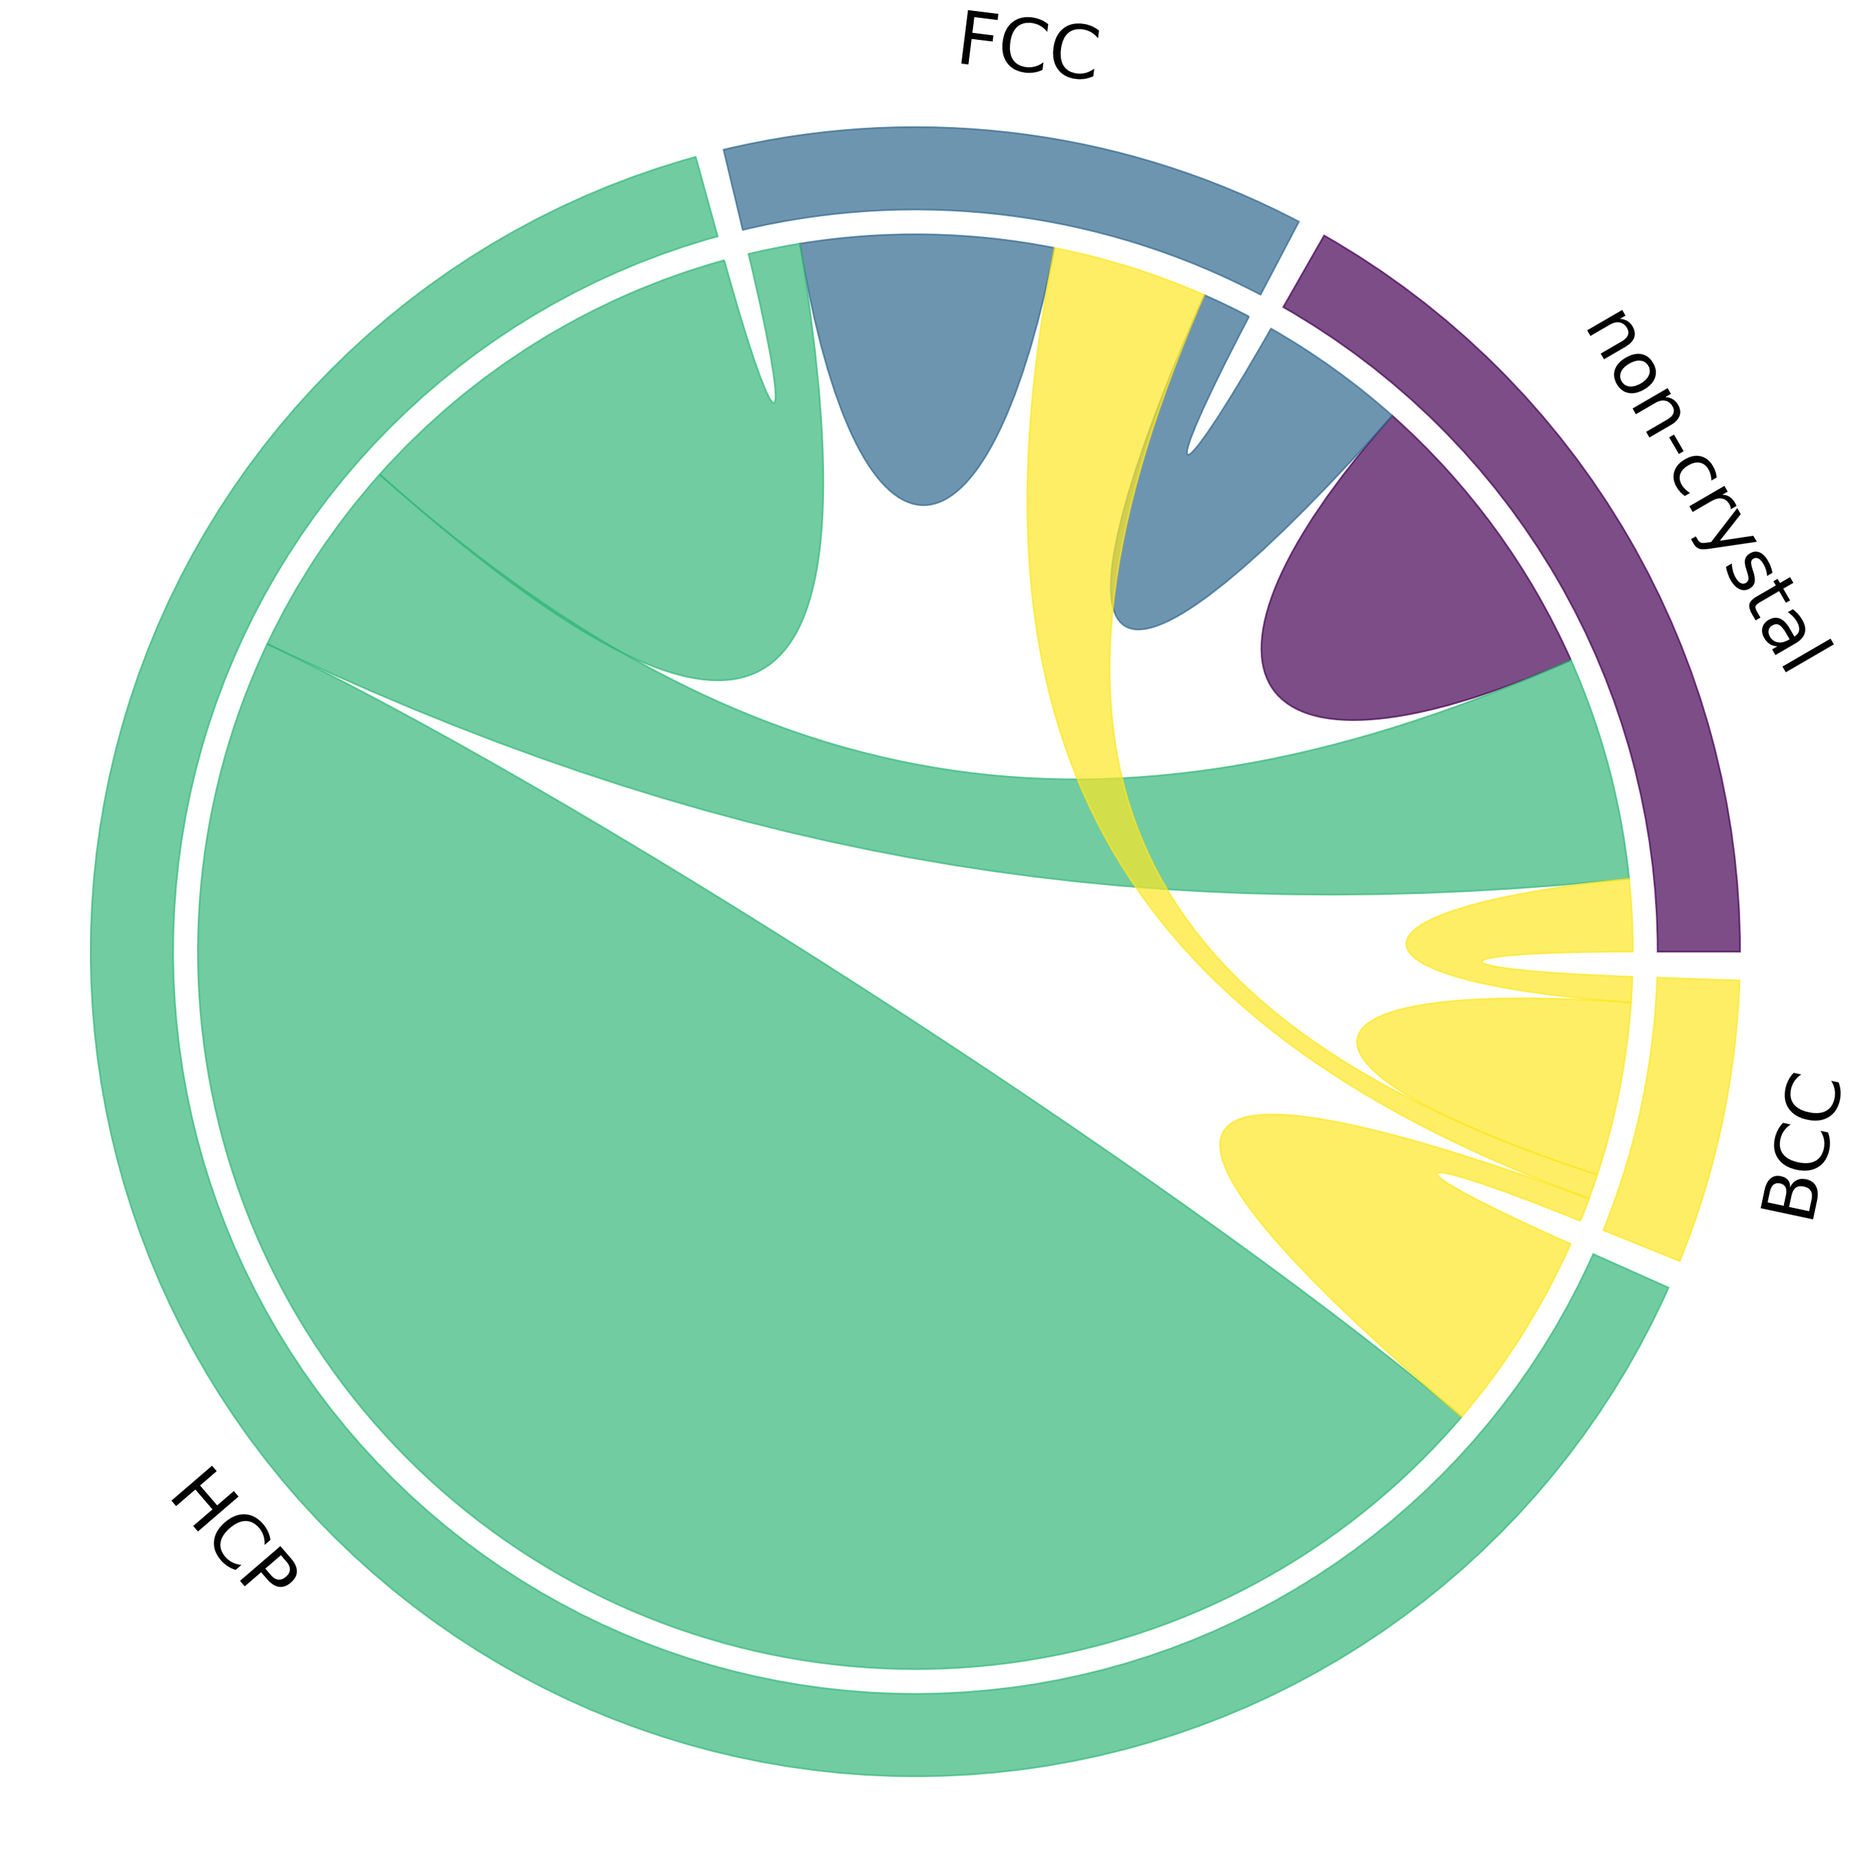
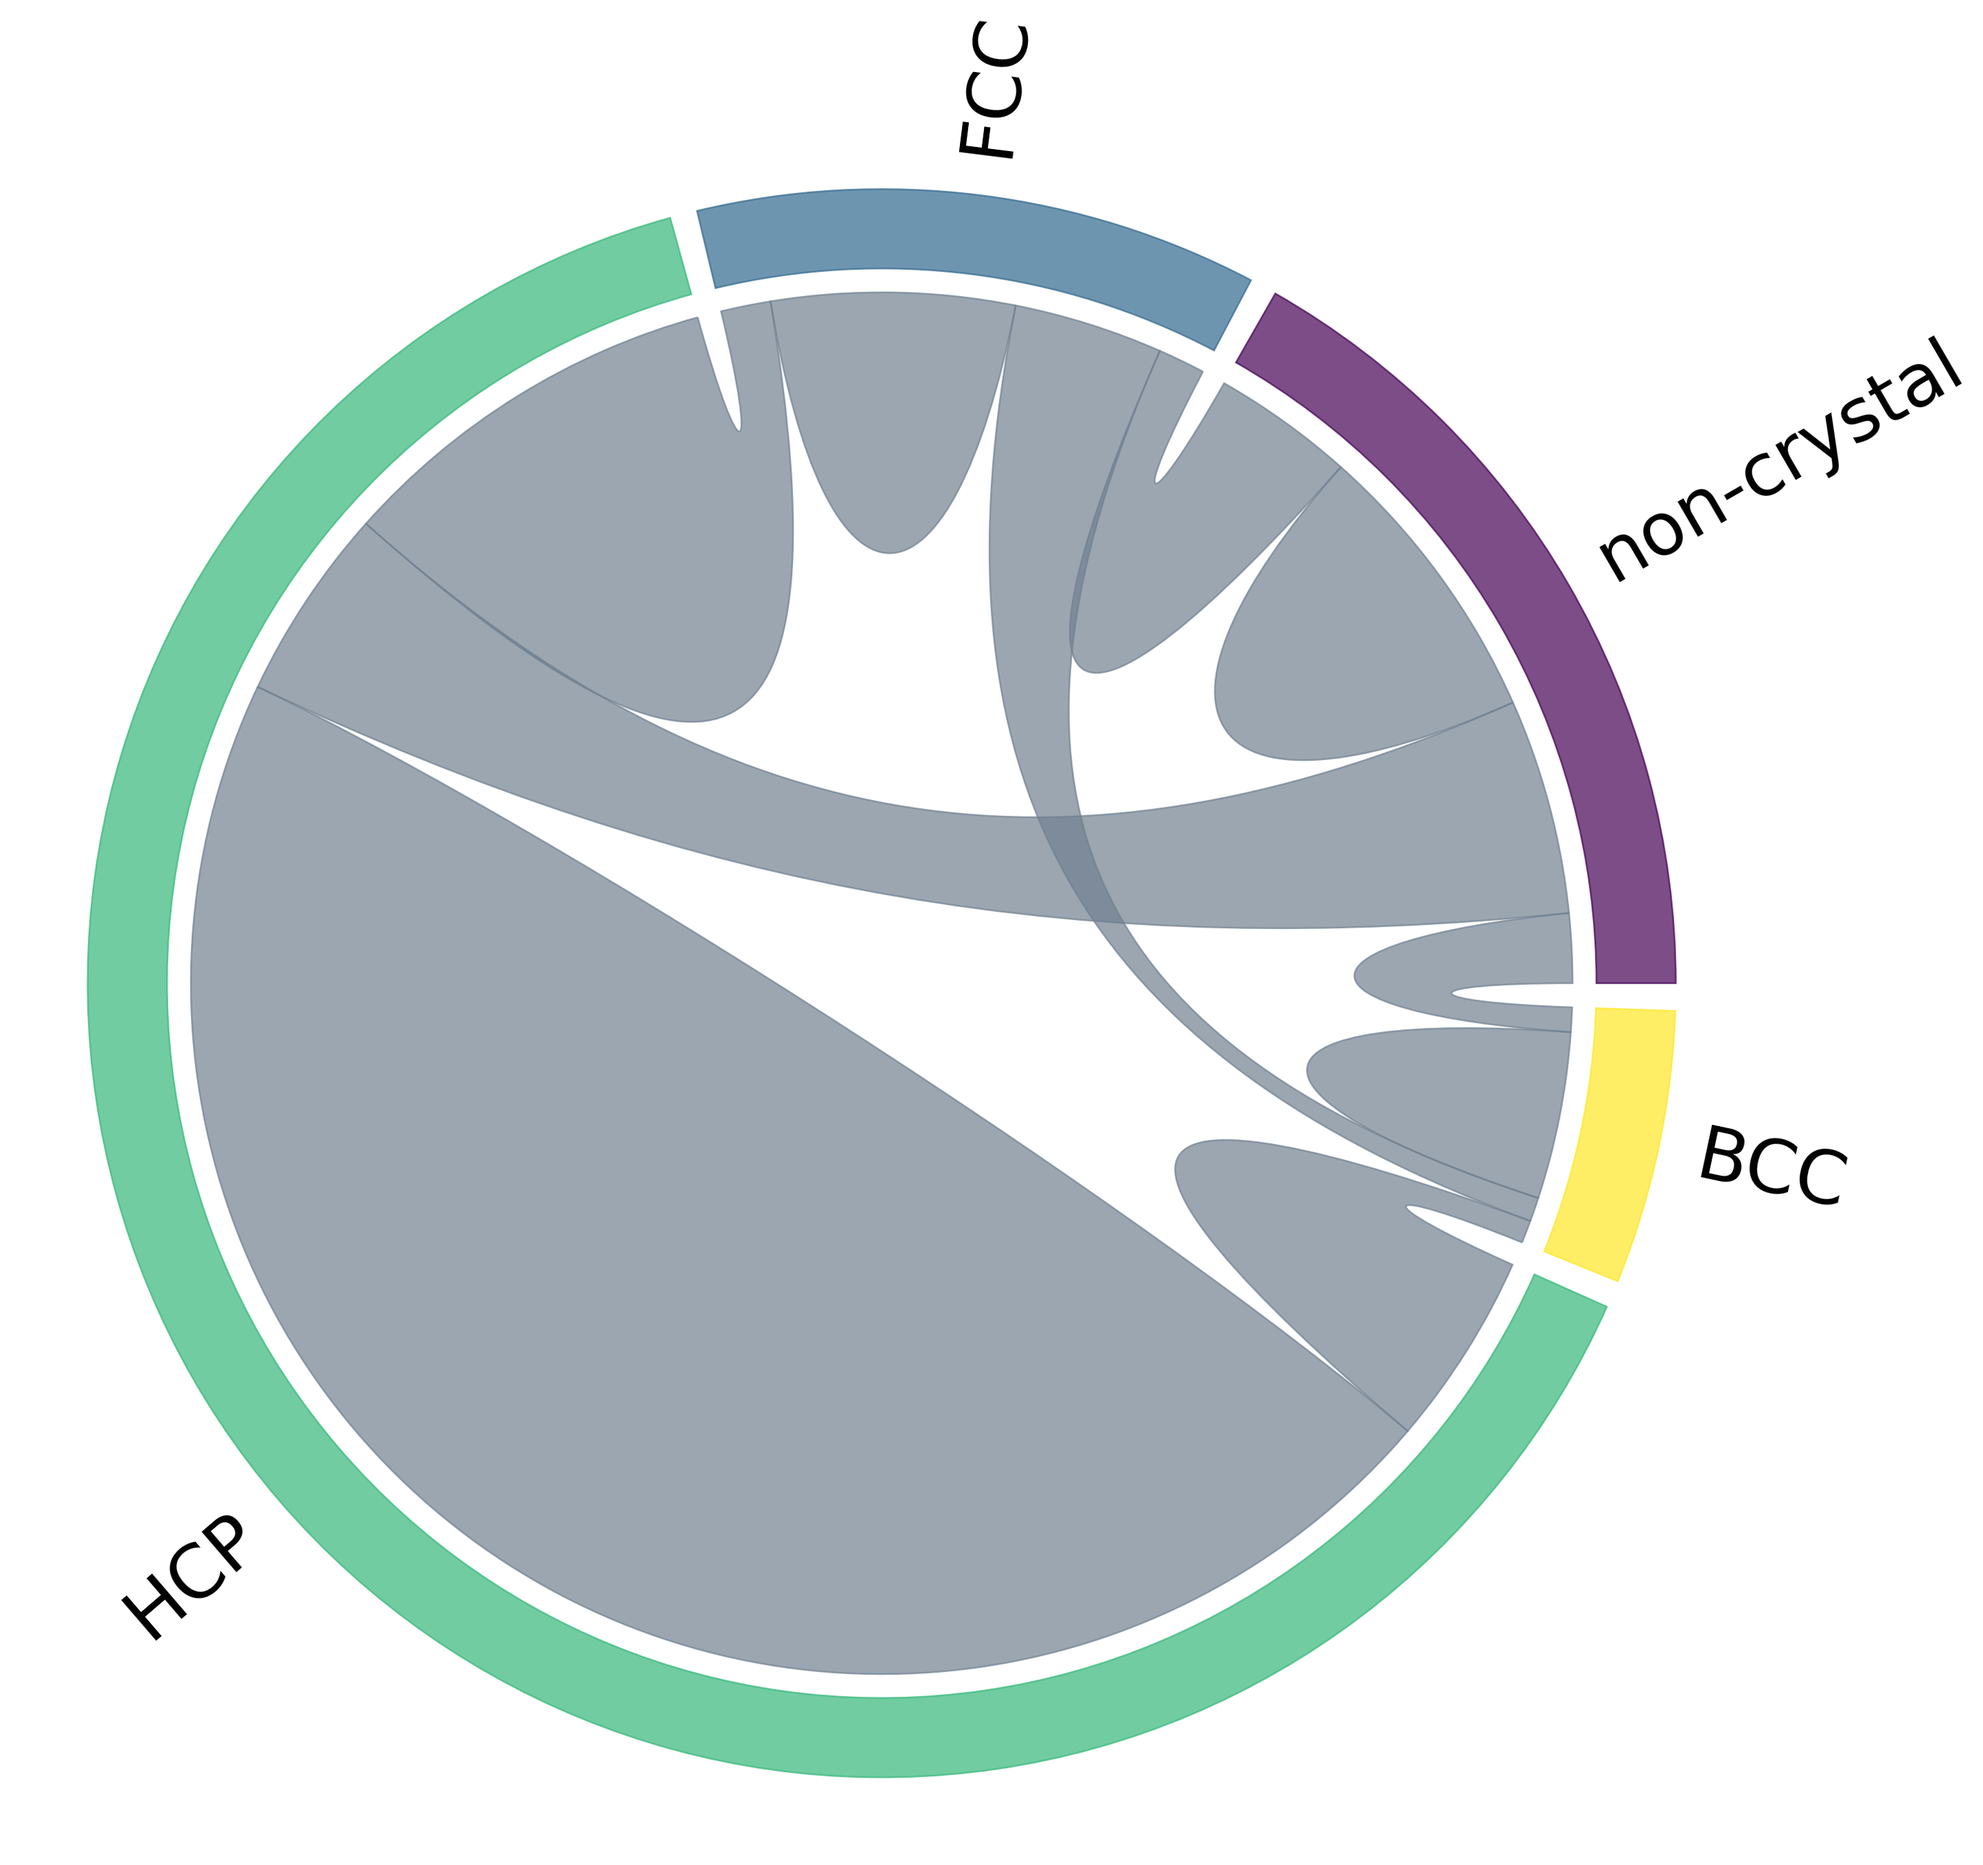
update examples and readme

diff --git a/chord_diagram.py b/chord_diagram.py
@@ -165,6 +165,7 @@ def chord_diagram(mat, names=None, order=None, width=0.1, pad=2., gap=0.03,
     pos = {}
     arc = []
     nodePos = []
+    rotation = []
     start = 0
 
     # compute all values and optionally apply sort
@@ -173,10 +174,12 @@ def chord_diagram(mat, names=None, order=None, width=0.1, pad=2., gap=0.03,
         arc.append((start, end))
         angle = 0.5*(start+end)
 
-        if -30 <= angle <= 210:
+        if -30 <= angle <= 180:
             angle -= 90
+            rotation.append(False)
         else:
             angle -= 270
+            rotation.append(True)
 
         nodePos.append(
             tuple(polar2xy(1.05, 0.5*(start + end)*np.pi/180.)) + (angle,))
@@ -251,9 +254,10 @@ def chord_diagram(mat, names=None, order=None, width=0.1, pad=2., gap=0.03,
             "fontsize": kwargs.get("fontsize", 16*0.8),
             "ha": "center",
             "va": "center",
+            "rotation_mode": "anchor"
         }
 
-        for i, (pos, name) in enumerate(zip(nodePos, names)):
+        for i, (pos, name, r) in enumerate(zip(nodePos, names, rotation)):
             rotate = rotate_names[i]
             pp = prop.copy()
 
@@ -261,15 +265,17 @@ def chord_diagram(mat, names=None, order=None, width=0.1, pad=2., gap=0.03,
                 angle  = np.average(arc[i])
                 rotate = 90
 
-                if 90 < angle < 210 or 270 < angle:
+                if 90 < angle < 180 or 270 < angle:
                     rotate = -90
 
                 if 90 < angle < 270:
                     pp["ha"] = "right"
                 else:
                     pp["ha"] = "left"
-
-                pp["rotation_mode"] = "anchor"
+            elif r:
+                pp["va"] = "top"
+            else:
+                pp["va"] = "bottom"
 
             ax.text(pos[0], pos[1], name, rotation=pos[2] + rotate, **pp)
 

diff --git a/example.py b/example.py
@@ -25,11 +25,15 @@ names = ['non-crystal', 'FCC', 'HCP', 'BCC']
 # plot different examples
 
 gradients = (True, False, False, True)
-gaps = (0.03, 0, 0.03, 0)
-sorts = ("size", "size", "distance", "distance")
 
-for grd, gap, sort in zip(gradients, gaps, sorts):
-    chord_diagram(flux, names, gap=gap, use_gradient=grd, sort=sort)
+gaps  = (0.03, 0, 0.03, 0)
+sorts = ("size", "size", "distance", "distance")
+cclrs = (None, None, "slategrey", None)
+nrota = (False, False, True, True)
+
+for grd, gap, sort, cc, nr in zip(gradients, gaps, sorts, cclrs, nrota):
+    chord_diagram(flux, names, gap=gap, use_gradient=grd, sort=sort,
+                  chord_colors=cc, rotate_names=nr)
 
     str_grd = "_gradient" if grd else ""
 

diff --git a/README.md b/README.md
@@ -28,9 +28,10 @@ installed automatically. If necessary, you can also install them by calling
 ## Main plot function
 
 ```python
-def chord_diagram(mat, names=None, width=0.1, pad=2., gap=0., chordwidth=0.7,
-                  ax=None, colors=None, cmap=None, alpha=0.7,
-                  use_gradient=False, show=False, **kwargs):
+
+def chord_diagram(mat, names=None, order=None, width=0.1, pad=2., gap=0.03,
+                  chordwidth=0.7, ax=None, colors=None, cmap=None, alpha=0.7,
+                  use_gradient=False, chord_colors=None, show=False, **kwargs):
     """
     Plot a chord diagram.
 
@@ -39,7 +40,11 @@ def chord_diagram(mat, names=None, width=0.1, pad=2., gap=0., chordwidth=0.7,
     mat : square matrix
         Flux data, mat[i, j] is the flux from i to j
     names : list of str, optional (default: no names)
-        Names of the nodes that will be displayed.
+        Names of the nodes that will be displayed (must be ordered as the
+        matrix entries).
+    order : list, optional (default: order of the matrix entries)
+        Order in which the arcs should be placed around the trigonometric
+        circle.
     width : float, optional (default: 0.1)
         Width/thickness of the ideogram arc.
     pad : float, optional (default: 2)
@@ -53,12 +58,23 @@ def chord_diagram(mat, names=None, width=0.1, pad=2., gap=0., chordwidth=0.7,
     colors : list, optional (default: from `cmap`)
         List of user defined colors or floats.
     cmap : str or colormap object (default: viridis)
-        Colormap to use.
+        Colormap that will be used to color the arcs and chords by default.
+        See `chord_colors` to use different colors for chords.
     alpha : float in [0, 1], optional (default: 0.7)
         Opacity of the chord diagram.
     use_gradient : bool, optional (default: False)
         Whether a gradient should be use so that chord extremities have the
         same color as the arc they belong to.
+    chord_colors : str, RGB tuple, list, optional (default: None)
+        Specify color(s) to fill the chords differently from the arcs.
+        When the keyword is not used, chord colors default to the colomap given
+        by `colors`.
+        Possible values for `chord_colors` are:
+         * a single color or RGB tuple, e.g. "red" or ``(1, 0, 0)``; all chords
+           will have this color
+         * a list of colors, e.g. ``["red","green","blue"]``, one per node.
+           Each chord will get its color from its associated source node, or
+           from both nodes if `use_gradient` is True.
     show : bool, optional (default: False)
         Whether the plot should be displayed immediately via an automatic call
         to `plt.show()`.
@@ -96,15 +112,15 @@ up and down are sorted respectively by domain size and distance):
   [#12](https://github.com/Silmathoron/mpl_chord_diagram/pull/12))
 * Support sparse matrices: Tanguy Fardet (PR
   [#10](https://github.com/Silmathoron/mpl_chord_diagram/pull/10))
-* Improved color support:
+* Improved color support (colormaps, gradients, chord colors):
    - [@pakitochus](https://github.com/pakitochus) (PR
      [#1](https://github.com/Silmathoron/mpl_chord_diagram/pull/1))
    - Tanguy Fardet (PRs
-      [#4](https://github.com/Silmathoron/mpl_chord_diagram/pull/4) for
-      colors/colormaps and
+      [#4](https://github.com/Silmathoron/mpl_chord_diagram/pull/4),
       [#5](https://github.com/Silmathoron/mpl_chord_diagram/pull/5) &
-      [#7](https://github.com/Silmathoron/mpl_chord_diagram/pull/7) for
-      gradients)
+      [#7](https://github.com/Silmathoron/mpl_chord_diagram/pull/7))
+   - [gph82](https://github.com/gph82) (PR
+     [#18](https://github.com/Silmathoron/mpl_chord_diagram/pull/18))
 * Improved arcs and chords:
    - [@cy1110](https://github.com/cy1110) (PR
      [#2](https://github.com/Silmathoron/mpl_chord_diagram/pull/2))
